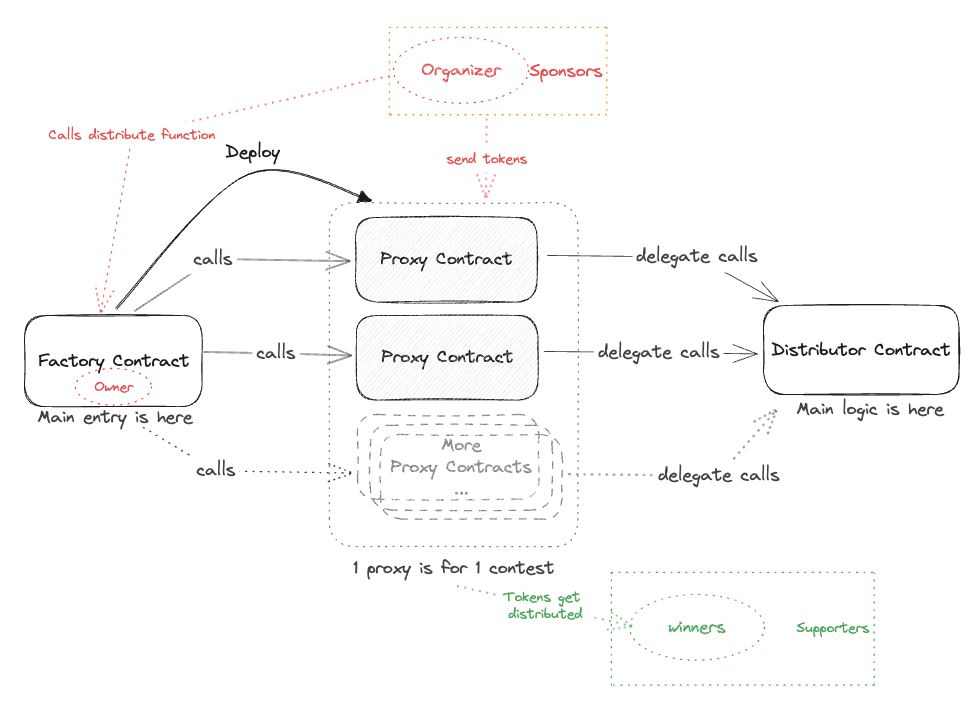
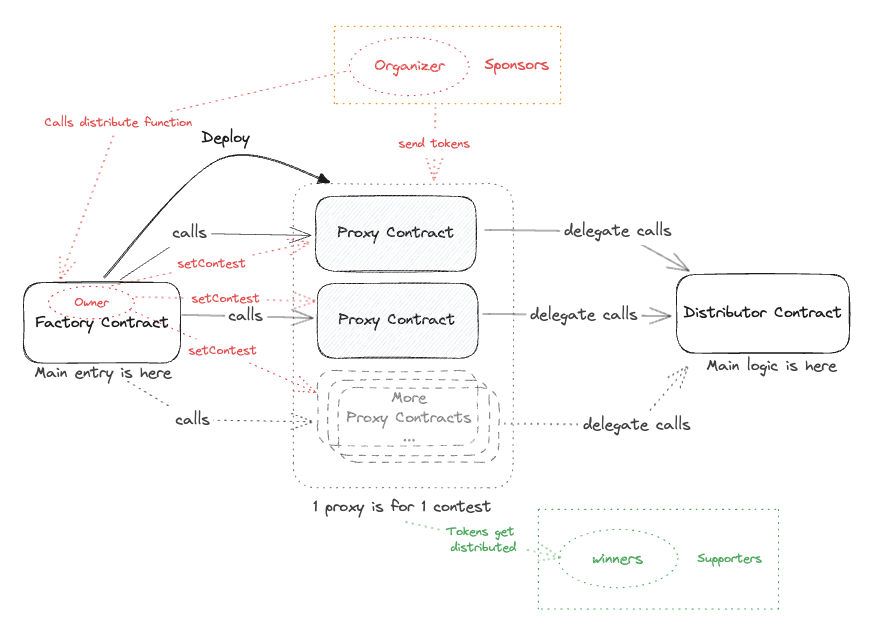
📝 add role and change graph in readme

diff --git a/README.md b/README.md
@@ -19,7 +19,7 @@ As a first step, we create the protocol and details of how users want to use it 
   - Proxy.sol
 
 ## Out of Scope
-All the files except the files in the above Scope. 
+Any file except for the files in above Scope. 
 
 ## Contracts
 The contracts in this repository are used as escrow of SPARKN users' assets on chain. 
@@ -41,6 +41,7 @@ There are 3 roles in the protocol.
 - Organizer: The person who creates the contest and is responsible for distributing the prizes to the winners. We also sometimes call it innovator.
 - Sponsor: the person who is willing to fund the contest. Sponsor can be the same person as the organizer or anyone else.
 - Supporter: the person who is willing to help solve the problem. Winners are selected from supporters.
+- Owner: The administrator of the protocol.
 
 ### More Context
 - The contracts is created with the philosophy of "supporter first".     
@@ -80,6 +81,7 @@ Tests are in the `test/` folder. More explanations about test cases can be found
 These are known issues or designed by purpose. 
 - There is a way to rescue the token stuck in the proxy contract after the deployment and distribution of prizes only when the token is whitelisted. If the token is not whitelisted, and then if someone sent the token by mistake, the token will be stuck there forever.
 - Proxy contracts are supposed to be disposed after the contest is over. If there is a need to upgrade the protocol, we will just create a new implementation contract and deploy proxies with the new implementation contract. And so is the factory contract. 
+- Owner is in charge of some of the key functions of the protocol. Owner's centralization risk is not an issue at this moment.
 
 
 
